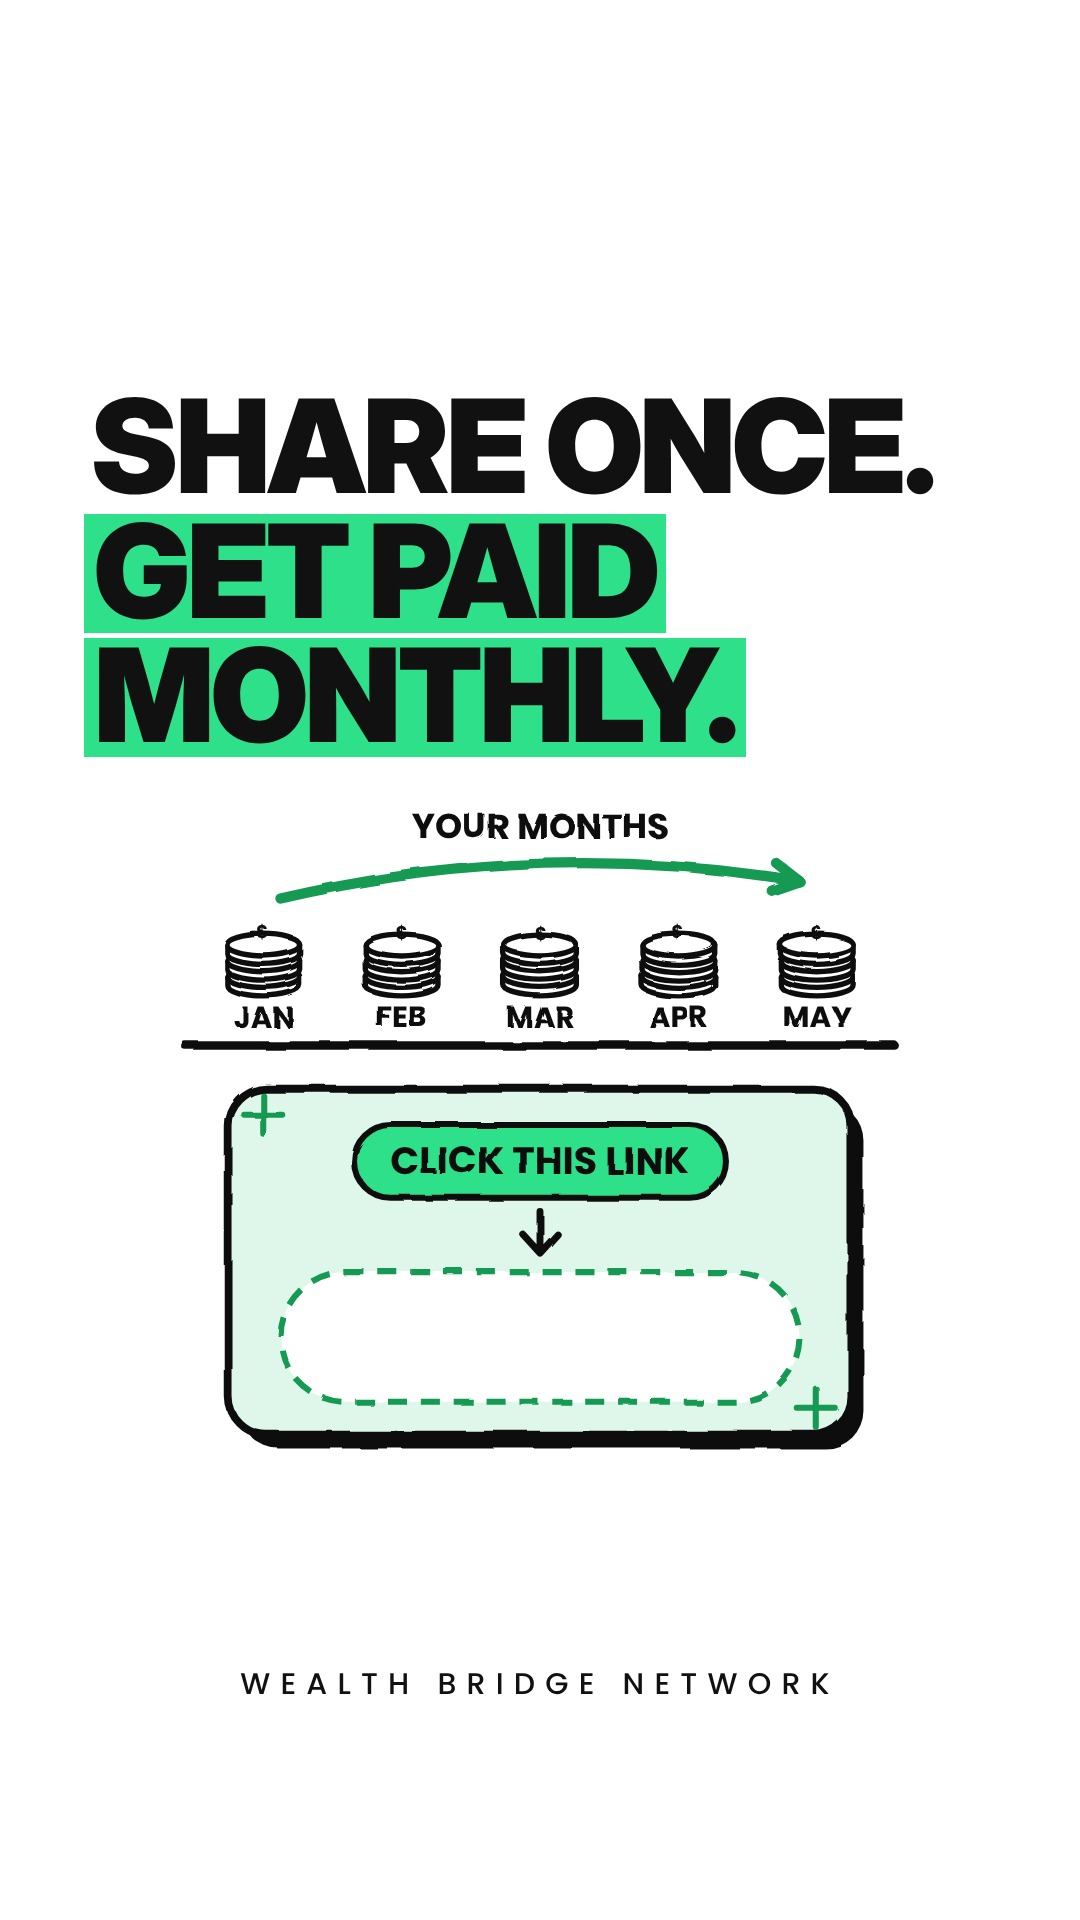
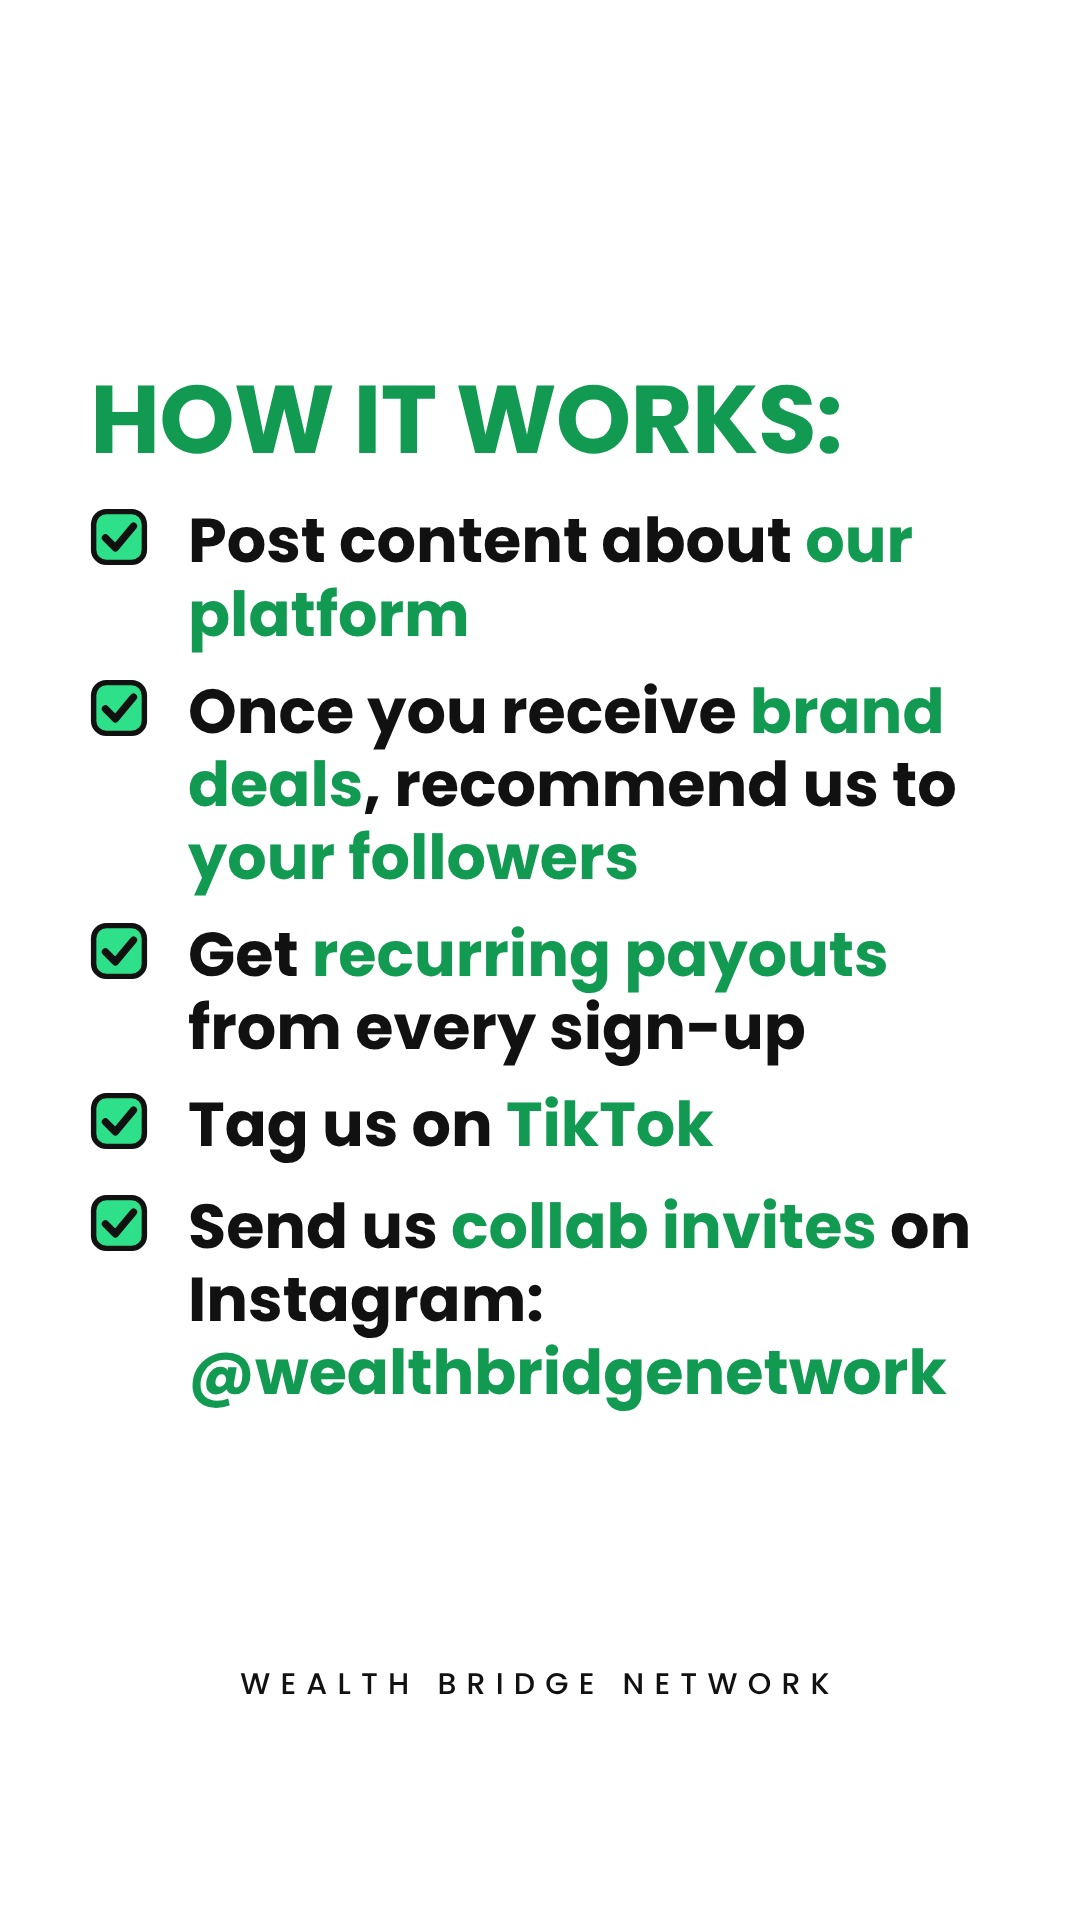
Highlights: affiliate and network follow the creators structure (intro, detail, how it works, next steps + link)
Claude-Session: https://claude.ai/code/session_01XWHiAuJ5usg3NqhhkBZ2QK

Changed region(s): [[0.0611, 0.1875, 0.9167, 0.7812], [0.0611, 0.5625, 0.1528, 0.6562], [0.0611, 0.4688, 0.1528, 0.5312]]

diff --git a/content/highlights.py b/content/highlights.py
@@ -65,26 +65,32 @@ dict(id="hl-affiliate", title="Affiliate", slides=[
  dict(tag="Affiliate program", hook="Become an\n*affiliate.*", hs=160,
       kick="Earn *recurring money* every month from the people you sign up. Plus a *discounted membership.*", ks=56,
       scene=ground(40, 860, 620) + figure(230, 620, 1.25, "point", "grin") + phone(500, 620, 1.0, "LINK") + moneybag(740, 620, 1.0), vh=640),
- dict(head="How it *works:*", hd=96,
-      text=["Apply via the *link in bio*. Once approved, our team *emails you* the next steps."], fs=50,
-      items=["Post content about *our platform*", "Once you receive *brand deals*, recommend us to *your followers*", "Get *recurring payouts* from every sign-up",
-             "Tag us on *TikTok*", "Send us *collab invites* on Instagram: *@wealthbridgenetwork*"], **{"is": 58}, check=True),
- dict(hook="Share once.\n*Get paid*\n*monthly.*", hs=130,
+ dict(hook="Share once.\n*Get paid*\n*monthly.*", hs=150,
       scene=lbl(450, 30, "YOUR MONTHS", INK, 40) + arrow(150, 100, 750, 80, -60, GREEN, 12)
       + ground(40, 860, 270) + month(130, 200, 0.7, "JAN") + month(290, 200, 0.7, "FEB") + month(450, 200, 0.7, "MAR")
-      + month(610, 200, 0.7, "APR") + month(770, 200, 0.7, "MAY")
-      + link_card(450, 320), vh=740),
+      + month(610, 200, 0.7, "APR") + month(770, 200, 0.7, "MAY"), vh=290,
+      kick="Every member you bring in can pay you *month after month.*", ks=58),
+ dict(head="How it *works:*", hd=96,
+      items=["Post content about *our platform*", "Once you receive *brand deals*, recommend us to *your followers*", "Get *recurring payouts* from every sign-up",
+             "Tag us on *TikTok*", "Send us *collab invites* on Instagram: *@wealthbridgenetwork*"], **{"is": 62}, check=True),
+ dict(head="What are the\n*next steps?*", hd=96,
+      items=["Go to the *link in bio*", "Fill in the *affiliate application*", "Once approved, you'll get an *email from our team* with next steps"], **{"is": 64},
+      scene=link_card(450, 20), vh=440),
 ]),
 # ================================================================ 3 · JOIN THE NETWORK
 dict(id="hl-network", title="Join us", slides=[
  dict(tag="Wealth Bridge Network", hook="Join our\n*network.*", hs=170,
-      kick="Your bridge to *China opportunities.*", ks=60,
+      kick="Your bridge to *China opportunities.* Building bridges. Creating access.", ks=60,
       scene=ground(40, 860, 560) + figure(110, 560, 1.0, "wave", "grin") + bridge(450, 560, 1.0, 520) + skyline(780, 560, 0.7), vh=600),
  dict(head="Get access *to:*", hd=96,
       items=["*Brand deals*", "*Jobs* in China", "*Scholarships*", "*Manufacturing* & sourcing", "*Free mentorship*"], **{"is": 76},
       scene=ground(60, 840, 360) + phone(150, 360, 0.6, "DEAL") + board(330, 360, 0.55, "JOB") + cap(520, 330, 0.7) + factory(700, 360, 0.5), vh=380),
- dict(hook="Building\n*bridges.*\nCreating\n*access.*", hs=160,
-      kick="Join today. *Tap below.*", ks=64,
+ dict(head="How it *works:*", hd=96,
+      items=["You *apply*", "You get *approved*", "You become a *member*", "We connect you with *opportunities* that fit your goals"], **{"is": 70},
+      scene=ground(60, 840, 380) + phone(140, 380, 0.7, "APPLY") + check(140, 120, 0.6, True) + arrow(230, 230, 320, 230, -50)
+      + figure(430, 380, 0.75, "up", "grin") + arrow(520, 230, 600, 230, -50) + bridge(740, 380, 0.45, 260), vh=400),
+ dict(head="What are the\n*next steps?*", hd=96,
+      items=["Go to the *link in bio*", "Fill in the *application*", "Once approved, you'll get an *email from our team* with next steps"], **{"is": 64},
       scene=link_card(450, 20), vh=440),
 ]),
 ]
